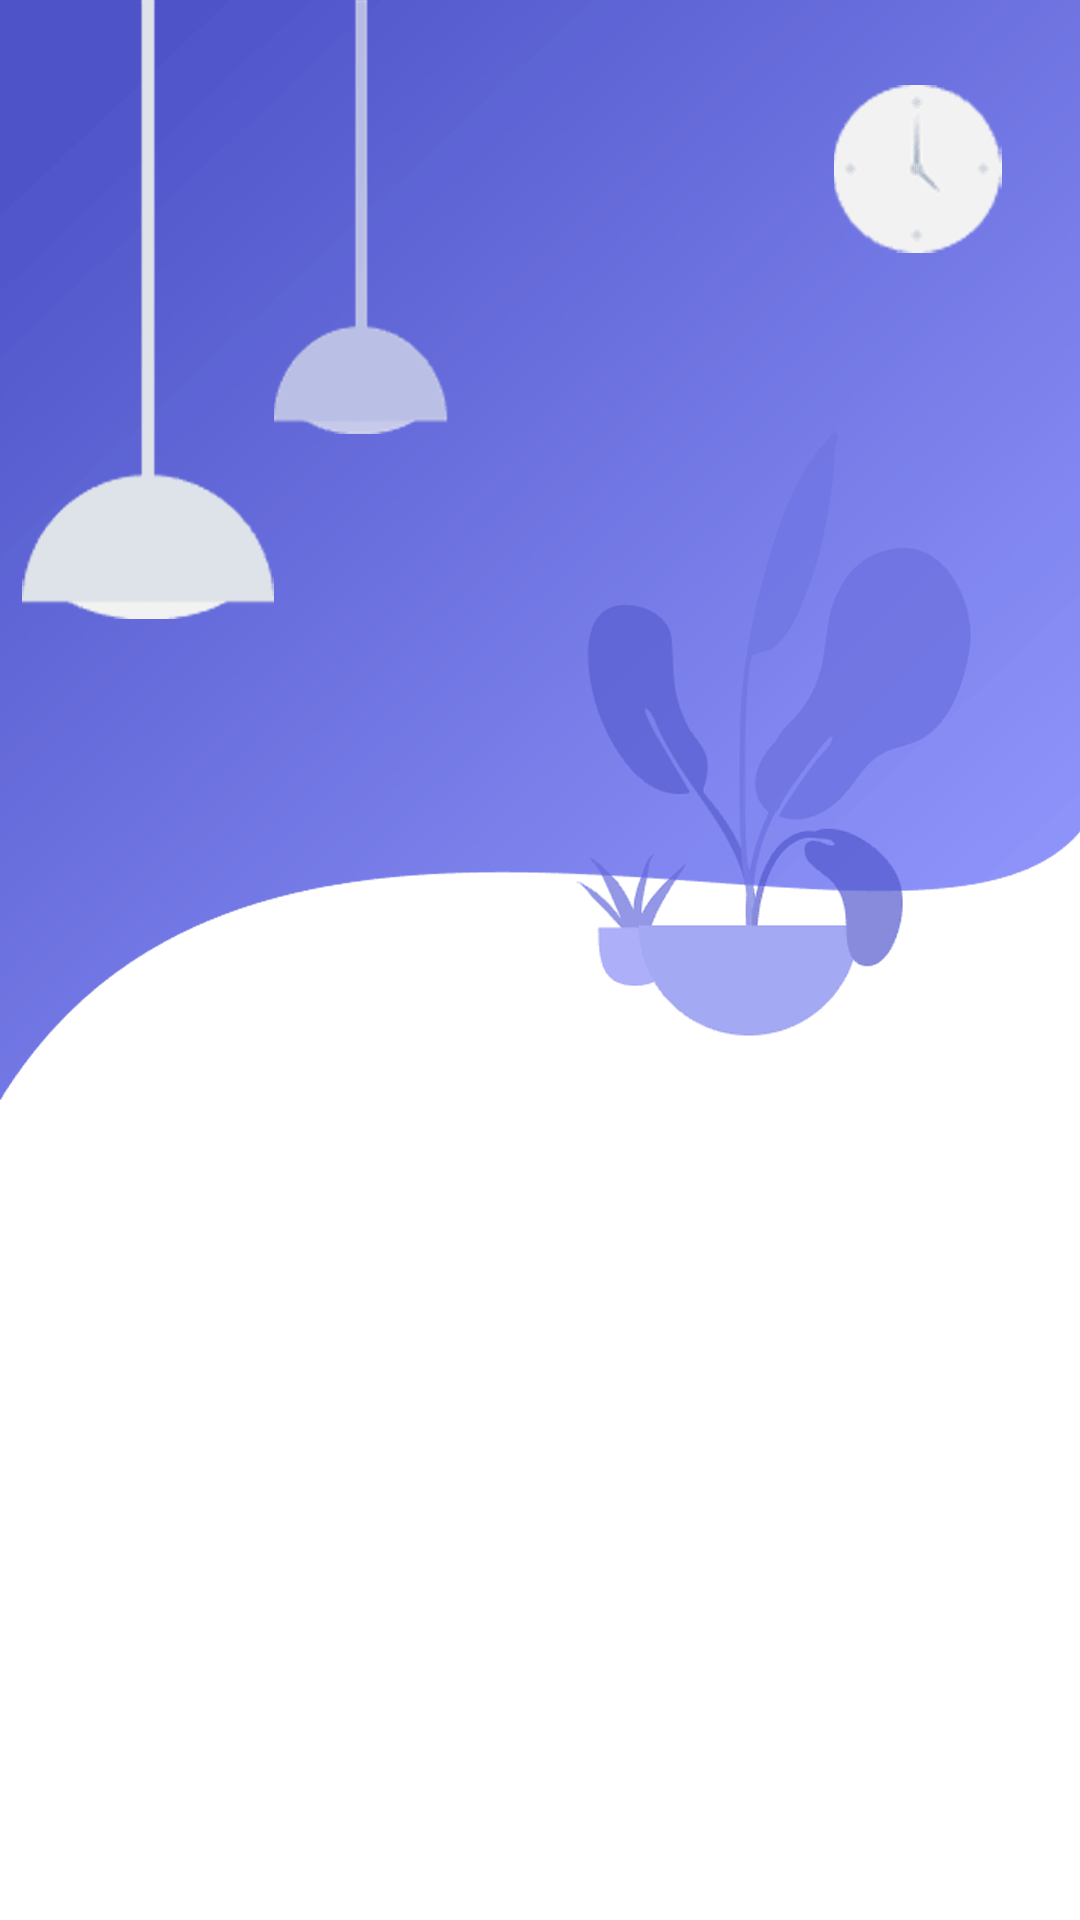
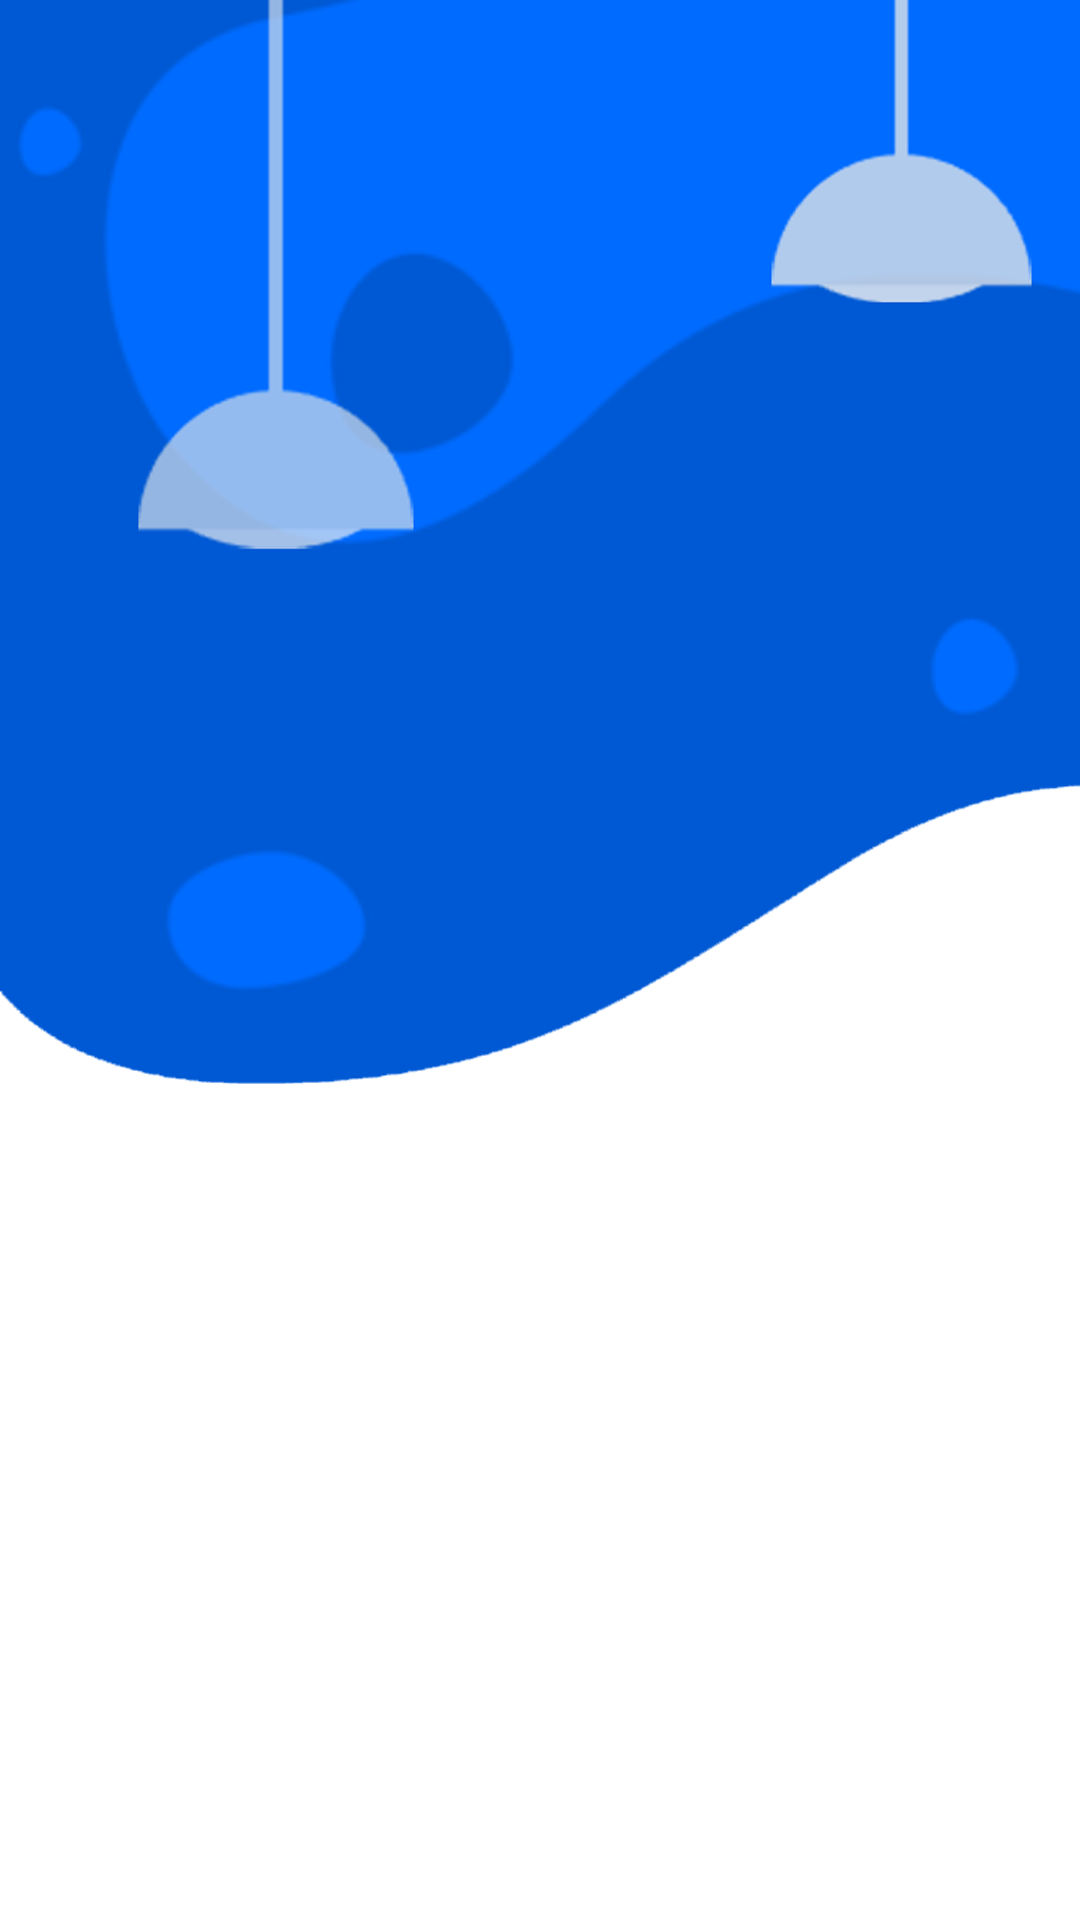
.

diff --git a/Iheader.php b/Iheader.php
@@ -36,10 +36,11 @@
         <div style=" 
      display:block;
      
-     background-image: url('./img/mainbg.png');
-     background-size: 350px;
+     background-image: url('./img/1.png');
+     background-size: 100% 100%;
   width: 350px;
   height: 90vh;
+  max-height: 100%;
      background-repeat: no-repeat; 
      border:2px solid #767474
 ;
@@ -48,10 +49,13 @@
      border-radius: 10px 10px 10px 10px;
      ">
 
-<div class="row h-50"></div>
+<div class="row h-50"><div class="col ">
+<center><img src="./img/logo.png" alt="profile" height="100px" width="100px" class="rounded-circle " style="margin-top: 140px;">
+                                <h4 class="mt-2 text-white">User</h4></center></div>
+</div>
         <div class="row h-50">
         
-            <div class="col"></div>
+        <div class="col"></div>
 
             <div class="w-100"></div>
             <div class="col">
